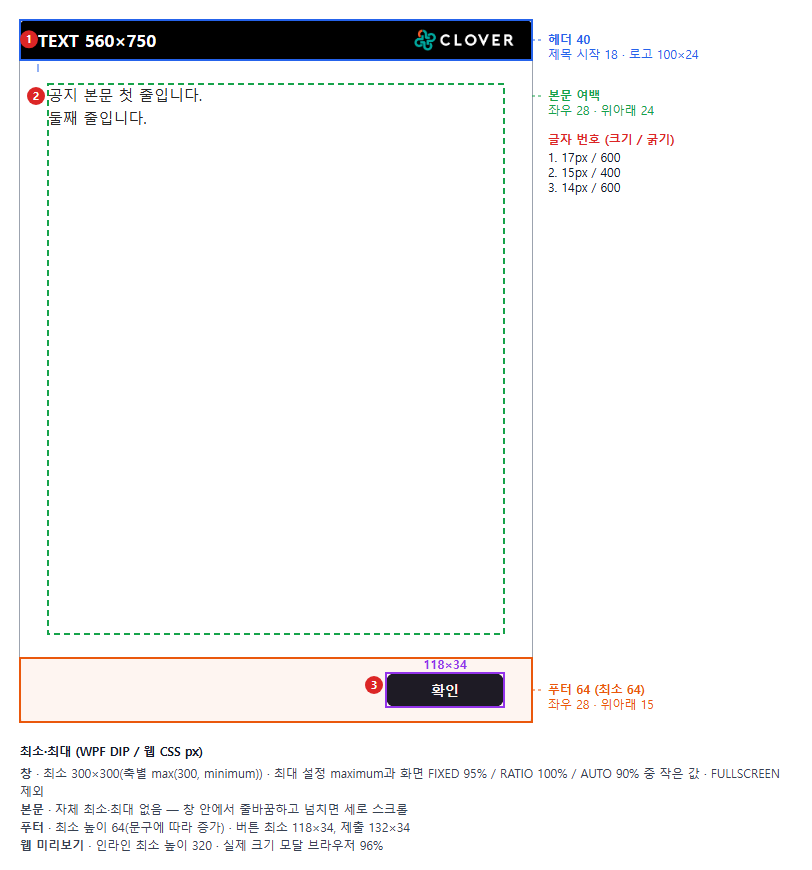
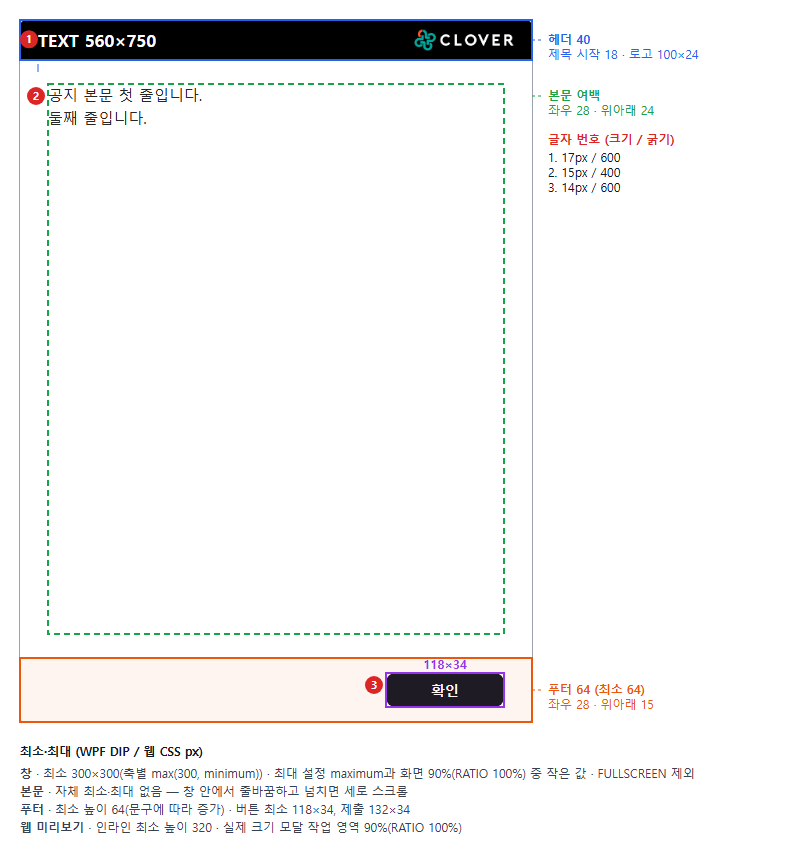
dev: 61-23_화면상한90통일_수정

diff --git a/zero-rule-web/main/src/features/PopupcommonComponent/popupPreviewDialogLayout.ts b/zero-rule-web/main/src/features/PopupcommonComponent/popupPreviewDialogLayout.ts
@@ -75,6 +75,9 @@ export const PREVIEW_SCREEN_PRESETS: ReadonlyArray<{ key: Exclude<PreviewScreenK
   { key: '2560x1440', display: { width: 2560, height: 1440 }, workArea: { width: 2560, height: 1400 } },
 ];
 
+/** WPF PopupWindow.ScreenSafeAreaRatio와 같은 화면 안전 여백(FIXED·IMAGE 공통 90%, 2026-11-24 통일). */
+export const PREVIEW_SCREEN_SAFE_AREA_RATIO = 0.90;
+
 /** 화면 정보가 없을 때(SSR 등) 쓰는 작업 영역. 기존 readViewport 대체값과 같다. */
 export const FALLBACK_WORK_AREA: Size = { width: 1920, height: 1040 };
 
@@ -124,7 +127,8 @@ export function previewWorkArea(key: PreviewScreenKey, current: Size): Size {
  * - in : popup(AdminPopupDetail) sizeMode·width/height·widthRatio/heightRatio·maximumWidth/maximumHeight · fitWindow(Size | null) PopupPreview가 계산한 IMAGE 권장 창 크기(WPF RecommendedSizeChanged와 같은 값, 이미 작업 영역 90% 이내) · workArea(Size) 작업 영역(현재 모니터 또는 기준 화면 프리셋)
  * - out: Size WPF가 같은 작업 영역에서 만들 창 크기(px, 정수 반올림). 브라우저 표시 한계는 previewDisplaySize가 따로 적용한다.
  * - WPF PopupWindow.ApplyWindowSize()와 같은 규칙(TODO61-23, 2026-11-24):
- *   IMAGE(FULLSCREEN 제외)는 설정 최대값 대신 작업 영역 90%. 비IMAGE FIXED는 min(설정 최대, 작업 영역 95%), RATIO는 min(설정 최대, 작업 영역 100%).
+ *   IMAGE(FULLSCREEN 제외)는 설정 최대값 대신 작업 영역 90%. 비IMAGE FIXED는 min(설정 최대, 작업 영역 90%), RATIO는 min(설정 최대, 작업 영역 100%).
+ *   (2026-11-24 WPF ScreenSafeAreaRatio 통일: FIXED 95% → 90%.)
  *   RATIO 비율은 WPF처럼 0.1~1.0으로 보정한다. 최소 300 x 300(popupMinimumSize)은 하한 → 설정 최대값(하한보다 작으면 하한까지) → 화면 상한 순서이며,
  *   화면 상한이 하한보다 작으면 하한을 상한까지 낮춘다(WPF Math.Min(Requested Minimum, max)).
  *   이전에는 브라우저 내부 크기를 작업 영역으로 보고 비IMAGE에 96%를 적용해, 브라우저 일반 모드(F11 해제)에서 IMAGE 730×900이 730×851로 줄었다.
@@ -138,7 +142,8 @@ export function previewDialogSize(popup: AdminPopupDetail, fitWindow: Size | nul
   const requestedHeight = popup.sizeMode === 'RATIO' ? areaHeight * ratio(popup.heightRatio) : (popup.height ?? 420);
   const minimum = popupMinimumSize(popup);
   const image = popup.popupType === 'IMAGE';
-  const screenRatio = image ? 0.90 : popup.sizeMode === 'RATIO' ? 1.0 : 0.95;
+  // WPF ScreenSafeAreaRatio 0.90(FIXED·AUTO·IMAGE 공통). RATIO는 작업 영역 × 비율이라 100%.
+  const screenRatio = !image && popup.sizeMode === 'RATIO' ? 1.0 : PREVIEW_SCREEN_SAFE_AREA_RATIO;
   const maximumWidth = image ? areaWidth * screenRatio : Math.min(Math.max(popup.maximumWidth, minimum.width), areaWidth * screenRatio);
   const maximumHeight = image ? areaHeight * screenRatio : Math.min(Math.max(popup.maximumHeight, minimum.height), areaHeight * screenRatio);
   const clamp = (value: number, min: number, max: number) => Math.max(Math.min(min, max), Math.min(max, value));

diff --git a/zero-rule-web/main/src/features/RgstPop/PopupEditorDialog.tsx b/zero-rule-web/main/src/features/RgstPop/PopupEditorDialog.tsx
@@ -564,9 +564,9 @@ export default function PopupEditorDialog({ open, popupId, initialActive, onClos
                 helperText={popup.popupType === 'IMAGE' ? `${POPUP_MIN_WINDOW_SIZE}px 이상 · 헤더·푸터 포함 최종 창 기준 · 작업 영역 90%를 넘으면 그 값으로 보정` : `${POPUP_MIN_WINDOW_SIZE}px 이상 · 최대 높이(${popup.maximumHeight}px) 이하`} onChange={(value) => updatePopup('minimumHeight', value)} />
               {popup.popupType !== 'IMAGE' && <>
                 <PopupDimensionField label="창 최대 너비" value={popup.maximumWidth} minimum={popup.minimumWidth} maximum={Number.MAX_VALUE}
-                  helperText={`최소 너비(${popup.minimumWidth}px) 이상 · ${popup.sizeMode === 'RATIO' ? '작업 영역 100%' : '작업 영역 95%'}를 넘지 않게 보정`} onChange={(value) => updatePopup('maximumWidth', value)} />
+                  helperText={`최소 너비(${popup.minimumWidth}px) 이상 · ${popup.sizeMode === 'RATIO' ? '작업 영역 100%' : '작업 영역 90%'}를 넘지 않게 보정`} onChange={(value) => updatePopup('maximumWidth', value)} />
                 <PopupDimensionField label="창 최대 높이" value={popup.maximumHeight} minimum={popup.minimumHeight} maximum={Number.MAX_VALUE}
-                  helperText={`최소 높이(${popup.minimumHeight}px) 이상 · ${popup.sizeMode === 'RATIO' ? '작업 영역 100%' : '작업 영역 95%'}를 넘지 않게 보정`} onChange={(value) => updatePopup('maximumHeight', value)} />
+                  helperText={`최소 높이(${popup.minimumHeight}px) 이상 · ${popup.sizeMode === 'RATIO' ? '작업 영역 100%' : '작업 영역 90%'}를 넘지 않게 보정`} onChange={(value) => updatePopup('maximumHeight', value)} />
               </>}
             </Box>}
             {popup.sizeMode !== 'FULLSCREEN' && <Typography variant="caption" color="text.secondary">{popup.popupType === 'IMAGE' ? '이미지 창 최대: 현재 화면 작업 영역의 90%. 고정 최대 픽셀값을 사용하지 않습니다.' : `미리보기 최대 크기: ${popup.maximumWidth}px × ${popup.maximumHeight}px`}</Typography>}

diff --git a/zero-rule-web/main/src/features/PopupcommonComponent/guide/guideData.ts b/zero-rule-web/main/src/features/PopupcommonComponent/guide/guideData.ts
@@ -100,7 +100,7 @@ const BUTTON = POPUP_LAYOUT.button;
  */
 export const LAYOUT_LIMITS: { windows: GuideLayoutLimit[]; types: GuideLayoutLimit[]; preview: GuideLayoutLimit[] } = {
   windows: [
-    { target: 'FIXED', min: `${MIN}×${MIN} (입력한 최소값이 더 크면 그 값)`, max: '입력한 최대값과 화면의 95% 중 작은 값', note: '입력한 너비·높이로 열고 최소·최대 사이로 맞춥니다.' },
+    { target: 'FIXED', min: `${MIN}×${MIN} (입력한 최소값이 더 크면 그 값)`, max: '입력한 최대값과 화면의 90% 중 작은 값', note: '입력한 너비·높이로 열고 최소·최대 사이로 맞춥니다.' },
     { target: 'RATIO', min: `${MIN}×${MIN}`, max: '입력한 최대값과 화면의 100% 중 작은 값', note: '화면 크기에 비율(0.1~1.0)을 곱합니다.' },
     { target: 'AUTO', min: `${MIN}×${MIN}`, max: '입력한 최대값과 화면의 90% 중 작은 값', note: '내용 크기에 맞춥니다.' },
     { target: 'FULLSCREEN', min: '제한 없음', max: '모니터 전체', note: '최소·최대 값을 쓰지 않습니다.' },
@@ -116,7 +116,7 @@ export const LAYOUT_LIMITS: { windows: GuideLayoutLimit[]; types: GuideLayoutLim
   ],
   preview: [
     { target: 'InlinePopupPreview', min: '미리보기 높이 320', max: '부모 영역', note: '실제 팝업 창의 최소 높이가 아닙니다.' },
-    { target: 'PopupPreviewDialog', min: `${MIN}×${MIN}`, max: '작업 영역의 95%(RATIO 100%, IMAGE 90%)', note: '작업 영역은 현재 모니터(작업 표시줄 제외) 또는 기준 화면 프리셋입니다. 브라우저보다 크면 표시 영역까지 줄이고 1:1이 아님을 안내합니다.' },
+    { target: 'PopupPreviewDialog', min: `${MIN}×${MIN}`, max: '작업 영역의 90%(RATIO 100%)', note: '작업 영역은 현재 모니터(작업 표시줄 제외) 또는 기준 화면 프리셋입니다. 브라우저보다 크면 표시 영역까지 줄이고 1:1이 아님을 안내합니다.' },
   ],
 };
 

diff --git a/popup-frameWork/Popup/Views/Windows/PopupWindow.xaml.cs b/popup-frameWork/Popup/Views/Windows/PopupWindow.xaml.cs
@@ -143,8 +143,8 @@ namespace Popup.Views.Windows
                         + PopupBodyBorder.BorderThickness.Top + PopupBodyBorder.BorderThickness.Bottom
                         + (_options.ShowHeader ? HeaderRow.Height.Value : 0)
                         + (_options.ShowFooter ? FooterRow.Height.Value : 0);
-                    imageView.SetAvailableBounds(EffectiveMaximumWidth(area, FixedSizeSafeAreaRatio) - outerWidth,
-                        EffectiveMaximumHeight(area, FixedSizeSafeAreaRatio) - outerHeight);
+                    imageView.SetAvailableBounds(EffectiveMaximumWidth(area, ScreenSafeAreaRatio) - outerWidth,
+                        EffectiveMaximumHeight(area, ScreenSafeAreaRatio) - outerHeight);
                     if (_lastImageRecommendation is Size recommendation)
                         ImagePopupView_RecommendedSizeChanged(recommendation.Width, recommendation.Height);
                 }
@@ -413,10 +413,10 @@ namespace Popup.Views.Windows
                 RequestedMinimumHeight;
 
             MaxWidth =
-                IsImagePopup ? CurrentWorkArea().Width * ImageSafeAreaRatio : RequestedMaximumWidth;
+                IsImagePopup ? CurrentWorkArea().Width * ScreenSafeAreaRatio : RequestedMaximumWidth;
 
             MaxHeight =
-                IsImagePopup ? CurrentWorkArea().Height * ImageSafeAreaRatio : RequestedMaximumHeight;
+                IsImagePopup ? CurrentWorkArea().Height * ScreenSafeAreaRatio : RequestedMaximumHeight;
 
             switch (_options.SizeMode)
             {
@@ -428,12 +428,13 @@ namespace Popup.Views.Windows
                  * (예: 5000 x 3000)에서 Header/Footer/닫기 버튼이 화면 밖으로 밀리고
                  * Topmost + Overlay 조합에서 사용자 PC 조작이 막힐 수 있다.
                  * 그래서 RATIO/AUTO처럼 현재 모니터 작업 영역(WorkArea, DIP 단위)을 기준으로
-                 * 최종 상한을 두고, IMAGE는 작업 영역 90%만으로 최대값을 정하고, 다른 유형은 기존 95%와 설정 최대값을 적용한다.
+                 * 최종 상한을 두고, IMAGE는 작업 영역 90%만으로 최대값을 정하고, 다른 유형은 작업 영역 90%와 설정 최대값 중 작은 값을 적용한다
+                 * (2026-11-24 FIXED 95% → 90%로 AUTO·IMAGE와 통일, ScreenSafeAreaRatio).
                  *
                  * 순서:
                  *   서버 Width/Height
                  *   → 서버 MaximumWidth/Height 적용
-                 *   → 작업 영역 95% 상한 적용
+                 *   → 작업 영역 90% 상한 적용
                  *   → 최소값도 상한 이하로 보정(Minimum > 화면 최대일 때 Math.Clamp 예외 방지)
                  *   → 최종 Window 크기
                  *
@@ -448,10 +449,10 @@ namespace Popup.Views.Windows
                         Rect workArea = CurrentWorkArea();
 
                         double safeMaxWidth =
-                            EffectiveMaximumWidth(workArea, FixedSizeSafeAreaRatio);
+                            EffectiveMaximumWidth(workArea, ScreenSafeAreaRatio);
 
                         double safeMaxHeight =
-                            EffectiveMaximumHeight(workArea, FixedSizeSafeAreaRatio);
+                            EffectiveMaximumHeight(workArea, ScreenSafeAreaRatio);
 
                         double safeMinWidth =
                             Math.Min(
@@ -631,10 +632,10 @@ namespace Popup.Views.Windows
                             SizeToContent.WidthAndHeight;
 
                         MaxWidth =
-                            EffectiveMaximumWidth(workArea, 0.9);
+                            EffectiveMaximumWidth(workArea, ScreenSafeAreaRatio);
 
                         MaxHeight =
-                            EffectiveMaximumHeight(workArea, 0.9);
+                            EffectiveMaximumHeight(workArea, ScreenSafeAreaRatio);
 
                         MinWidth =
                             Math.Min(RequestedMinimumWidth, MaxWidth);
@@ -657,18 +658,20 @@ namespace Popup.Views.Windows
         }
 
         /*
-         * POL-02-01 : 창 구조 — FIXED 크기의 화면 안전 여백. 작업 영역의 95%를 최대 크기로 쓴다.
-         * (1920 x 1080 작업 영역이면 약 1824 x 1026)
+         * POL-02-01 : 창 구조 — 화면 안전 여백. FIXED·AUTO·IMAGE 모두 작업 영역의 90%를 최대 크기로 쓴다
+         * (1920 x 1040 작업 영역이면 1728 x 936). RATIO는 '작업 영역 × 비율(0.1~1.0)'이라 100%, FULLSCREEN은 화면 전체.
+         * 2026-11-24 통일: 이전에는 FIXED 95%·AUTO 90%·IMAGE 90%로 따로 정해져 있었고 값이 다른 근거가 없었다.
+         * 90%는 창 안 그림자 여백 24와 별도로 화면 가장자리 여유(1040 높이에서 위아래 약 52)를 남겨 배경 Overlay·닫기 버튼이 보이게 하고,
+         * VM 복귀·해상도 변경 때 버튼이 화면 밖으로 밀릴 위험을 줄인다.
          */
-        private const double FixedSizeSafeAreaRatio = 0.95;
-        private const double ImageSafeAreaRatio = 0.90;
+        private const double ScreenSafeAreaRatio = 0.90;
         private Size? _lastImageRecommendation;
         private bool IsImagePopup => _options.PopupType == "IMAGE" || _options.Content is ImagePopupView;
 
         private double EffectiveMaximumWidth(Rect area, double otherRatio) => IsImagePopup
-            ? area.Width * ImageSafeAreaRatio : Math.Min(RequestedMaximumWidth, area.Width * otherRatio);
+            ? area.Width * ScreenSafeAreaRatio : Math.Min(RequestedMaximumWidth, area.Width * otherRatio);
         private double EffectiveMaximumHeight(Rect area, double otherRatio) => IsImagePopup
-            ? area.Height * ImageSafeAreaRatio : Math.Min(RequestedMaximumHeight, area.Height * otherRatio);
+            ? area.Height * ScreenSafeAreaRatio : Math.Min(RequestedMaximumHeight, area.Height * otherRatio);
 
         /*
          * POL-01-03 : 최소 크기
@@ -724,10 +727,10 @@ namespace Popup.Views.Windows
                 recommendedHeight = image.RequestedWindowHeight ?? recommendedHeight + vertical;
             }
             double safeMaxWidth =
-                EffectiveMaximumWidth(workArea, FixedSizeSafeAreaRatio);
+                EffectiveMaximumWidth(workArea, ScreenSafeAreaRatio);
 
             double safeMaxHeight =
-                EffectiveMaximumHeight(workArea, FixedSizeSafeAreaRatio);
+                EffectiveMaximumHeight(workArea, ScreenSafeAreaRatio);
 
             double safeMinWidth =
                 Math.Min(

diff --git a/scripts/PopupWindowTests/Program.cs b/scripts/PopupWindowTests/Program.cs
@@ -717,6 +717,11 @@ internal static class Program
         Check(Math.Abs(ratio.Width - 300) < 0.6 && Math.Abs(ratio.Height - 300) < 0.6, $"[TODO68] RATIO result below 300 uses the floor ({ratio})");
         var larger = Fixed(640, 480, 300);
         Check(Math.Abs(larger.Width - 640) < 0.6 && Math.Abs(larger.Height - 480) < 0.6, "[TODO68] sizes above the floor are unchanged");
+        // 2026-11-24 화면 상한 통일(ScreenSafeAreaRatio 0.90): 비IMAGE FIXED도 AUTO·IMAGE와 같이 작업 영역 90%(이전 95%). 설정 최대값이 더 커도 화면 상한이 이긴다.
+        var huge = Fixed(20000, 20000, 300, maxWidth: 30000);
+        var area = SystemParameters.WorkArea;
+        Check(Math.Abs(huge.Width - area.Width * 0.9) < 1 && Math.Abs(huge.Height - area.Height * 0.9) < 1,
+            $"[screen cap] FIXED non-IMAGE is capped at 90% of the work area ({huge.Width} x {huge.Height} / {area.Width} x {area.Height})");
 
         // IMAGE FIT_TO_IMAGE: 콘텐츠 50 x 50이어도 헤더·푸터를 더한 최종 창은 300 이상이고 width/height는 콘텐츠 영역 의미를 유지한다.
         var image = DemoPopups("IMAGE").Single();

diff --git a/docs/design/61_POPUP_LAYOUT_GUIDE.md b/docs/design/61_POPUP_LAYOUT_GUIDE.md
@@ -57,10 +57,10 @@ node scripts/verify-popup-parity.cjs
 
 | 창 모드 | WPF 최소 | WPF 최대(가로·세로 각각) | 실제 크기 |
 |---|---|---|---|
-| `FIXED` | 유효 하한, 화면 상한 이하로 보정 | **비IMAGE:** `min(설정 maximum, 작업 영역×95%)`; **IMAGE:** 작업 영역×90% | 요청 width/height 보정 |
+| `FIXED` | 유효 하한, 화면 상한 이하로 보정 | **비IMAGE:** `min(설정 maximum, 작업 영역×90%)`; **IMAGE:** 작업 영역×90% | 요청 width/height 보정. 2026-11-24 95% → 90% 통일 |
 | `RATIO` | 유효 하한, 화면 상한 이하로 보정 | **비IMAGE:** `min(설정 maximum, 작업 영역×100%)`; **IMAGE:** 작업 영역×90% | WPF가 축별 비율을 0.1~1.0으로 보정해 작업 영역에 적용 |
 | `AUTO` | 유효 하한, 화면 상한 이하로 보정 | **비IMAGE:** `min(설정 maximum, 작업 영역×90%)`; **IMAGE:** 작업 영역×90% | 콘텐츠 측정 크기(`SizeToContent`) 기준 |
-| `FULLSCREEN` | 창 속성 min 0 | 창 속성 max ∞; 실제 주 모니터 전체 크기 | 일반 최소 300·화면 90/95% 상한 적용하지 않음 |
+| `FULLSCREEN` | 창 속성 min 0 | 창 속성 max ∞; 실제 주 모니터 전체 크기 | 일반 최소 300·화면 90% 상한 적용하지 않음 |
 
 비IMAGE에서 설정 maximum이 유효 하한보다 작으면 하한까지 올린다. IMAGE는 설정 maximum이 아닌 **작업 영역 90% 상한**을 사용한다. IMAGE의 `ADAPTIVE/FIT_TO_IMAGE`는 위의 창 크기 모드와 다른 **이미지 표시 모드**다.
 
@@ -84,12 +84,12 @@ node scripts/verify-popup-parity.cjs
 | 화면 | 적용 범위·제한 |
 |---|---|
 | 인라인 미리보기 | 미리보기 내용 자리 **최소 높이 320**, 너비는 부모 영역 기준. 실제 팝업 창의 최소 높이가 아님 |
-| 실제 크기 모달(비IMAGE) | **작업 영역 기준**(TODO61-23, 2026-11-24): 설정 minimum/maximum으로 보정 후 FIXED `min(설정 maximum, 작업 영역×95%)`, RATIO `min(설정 maximum, 작업 영역×100%)`·비율 0.1~1.0 보정으로 WPF와 같다(웹에는 AUTO 없음). 작업 영역은 현재 모니터(`screen.availWidth/availHeight`) 또는 기준 화면 프리셋(1920×1080→1920×1040, 2560×1440→2560×1400) |
+| 실제 크기 모달(비IMAGE) | **작업 영역 기준**(TODO61-23, 2026-11-24): 설정 minimum/maximum으로 보정 후 FIXED `min(설정 maximum, 작업 영역×90%)`, RATIO `min(설정 maximum, 작업 영역×100%)`·비율 0.1~1.0 보정으로 WPF와 같다(웹에는 AUTO 없음). 작업 영역은 현재 모니터(`screen.availWidth/availHeight`) 또는 기준 화면 프리셋(1920×1080→1920×1040, 2560×1440→2560×1400) |
 | 실제 크기 모달(IMAGE) | **작업 영역 90% 상한**(WPF와 같음). FIT_TO_IMAGE 권장 창 크기도 같은 작업 영역으로 계산한다 |
 | 실제 크기 모달 표시 한계 | 목표 크기가 브라우저 표시 영역(`innerWidth/innerHeight`)에 들어가면 1:1. 넘치는 축만 표시 영역까지 줄이고 '1:1 아님'을 안내한다. 배경은 브라우저 뷰포트를 덮고 페이지·모달 래퍼 스크롤은 없다 |
 | FULLSCREEN 미리보기 | 브라우저 뷰포트 전체. WPF는 주 모니터 전체화면 |
 
-**확인 기준:** 유형별 300 하한·설정 maximum·모드별 화면 상한, TEXT 300 폭 본문 스크롤, QUIZ 760 및 긴 문항 줄바꿈, 선택지 32, WEB 주관식 96~180, VIDEO+QUIZ 영상 180/70%, 인라인 320·모달 작업 영역 95%/100%/90%를 같은 데이터로 확인한다. 브라우저/WPF 실화면·DPI·폐쇄망 검증은 미실행 상태로 유지한다.
+**확인 기준:** 유형별 300 하한·설정 maximum·모드별 화면 상한, TEXT 300 폭 본문 스크롤, QUIZ 760 및 긴 문항 줄바꿈, 선택지 32, WEB 주관식 96~180, VIDEO+QUIZ 영상 180/70%, 인라인 320·모달 작업 영역 90%(RATIO 100%)를 같은 데이터로 확인한다. 브라우저/WPF 실화면·DPI·폐쇄망 검증은 미실행 상태로 유지한다.
 
 근거: [WPF 창 크기](../../popup-frameWork/Popup/Views/Windows/PopupWindow.xaml.cs) · [WPF 기본 설정](../../popup-frameWork/Popup/Models/PopupOptions.cs) · [TEXT 뷰](../../popup-frameWork/Popup/Views/Contents/TextPopupView.xaml) · [설문/퀴즈 뷰](../../popup-frameWork/Popup/Views/Contents/SurveyPopupView.xaml) · [문항 구현](../../popup-frameWork/Popup/Views/Contents/SurveyPopupView.xaml.cs) · [영상 비율](../../popup-frameWork/Popup/Views/Contents/VideoPopupView.AspectSizing.cs) · [웹 설문](../../zero-rule-web/main/src/features/PopupcommonComponent/SurveyPreview.tsx) · [웹 크기 계산](../../zero-rule-web/main/src/features/PopupcommonComponent/popupPreviewDialogLayout.ts) · [인라인 미리보기](../../zero-rule-web/main/src/features/PopupcommonComponent/InlinePopupPreview.tsx)
 
@@ -118,10 +118,10 @@ node scripts/verify-popup-parity.cjs
 
 최소·최대(그림 아래 칸과 같음):
 
-- **창** · 최소 300×300(축별 max(300, minimum)) · 최대 설정 maximum과 화면 FIXED 95% / RATIO 100% / AUTO 90% 중 작은 값 · FULLSCREEN 제외
+- **창** · 최소 300×300(축별 max(300, minimum)) · 최대 설정 maximum과 화면 90%(RATIO 100%) 중 작은 값 · FULLSCREEN 제외
 - **본문** · 자체 최소·최대 없음 — 창 안에서 줄바꿈하고 넘치면 세로 스크롤
 - **푸터** · 최소 높이 64(문구에 따라 증가) · 버튼 최소 118×34, 제출 132×34
-- **웹 미리보기** · 인라인 최소 높이 320 · 실제 크기 모달 작업 영역 95%(RATIO 100%)
+- **웹 미리보기** · 인라인 최소 높이 320 · 실제 크기 모달 작업 영역 90%(RATIO 100%)
 
 웹·WPF 나란히: [PARITY-TEXT-560x750.side.png](61_popup_layout_guide/PARITY-TEXT-560x750.side.png)
 
@@ -140,10 +140,10 @@ node scripts/verify-popup-parity.cjs
 
 최소·최대(그림 아래 칸과 같음):
 
-- **창** · 최소 300×300(축별 max(300, minimum)) · 최대 설정 maximum과 화면 FIXED 95% / RATIO 100% / AUTO 90% 중 작은 값 · FULLSCREEN 제외
+- **창** · 최소 300×300(축별 max(300, minimum)) · 최대 설정 maximum과 화면 90%(RATIO 100%) 중 작은 값 · FULLSCREEN 제외
 - **본문** · 자체 최소·최대 없음 — 창 안에서 줄바꿈하고 넘치면 세로 스크롤
 - **푸터** · 최소 높이 64(문구에 따라 증가) · 버튼 최소 118×34, 제출 132×34
-- **웹 미리보기** · 인라인 최소 높이 320 · 실제 크기 모달 작업 영역 95%(RATIO 100%)
+- **웹 미리보기** · 인라인 최소 높이 320 · 실제 크기 모달 작업 영역 90%(RATIO 100%)
 
 웹·WPF 나란히: [PARITY-TEXT-NARROW-LONG.side.png](61_popup_layout_guide/PARITY-TEXT-NARROW-LONG.side.png)
 
@@ -165,10 +165,10 @@ node scripts/verify-popup-parity.cjs
 
 최소·최대(그림 아래 칸과 같음):
 
-- **창** · 최소 300×300(축별 max(300, minimum)) · 최대 설정 maximum과 화면 FIXED 95% / RATIO 100% / AUTO 90% 중 작은 값 · FULLSCREEN 제외
+- **창** · 최소 300×300(축별 max(300, minimum)) · 최대 설정 maximum과 화면 90%(RATIO 100%) 중 작은 값 · FULLSCREEN 제외
 - **설문·퀴즈** · 콘텐츠 최대 너비 760(창 너비와 별개) · 선택지 최소 높이 32 · 주관식 최소 96(웹 96~180)
 - **푸터** · 최소 높이 64(문구에 따라 증가) · 버튼 최소 118×34, 제출 132×34
-- **웹 미리보기** · 인라인 최소 높이 320 · 실제 크기 모달 작업 영역 95%(RATIO 100%)
+- **웹 미리보기** · 인라인 최소 높이 320 · 실제 크기 모달 작업 영역 90%(RATIO 100%)
 
 웹·WPF 나란히: [PARITY-SURVEY.side.png](61_popup_layout_guide/PARITY-SURVEY.side.png)
 
@@ -190,10 +190,10 @@ node scripts/verify-popup-parity.cjs
 
 최소·최대(그림 아래 칸과 같음):
 
-- **창** · 최소 300×300(축별 max(300, minimum)) · 최대 설정 maximum과 화면 FIXED 95% / RATIO 100% / AUTO 90% 중 작은 값 · FULLSCREEN 제외
+- **창** · 최소 300×300(축별 max(300, minimum)) · 최대 설정 maximum과 화면 90%(RATIO 100%) 중 작은 값 · FULLSCREEN 제외
 - **설문·퀴즈** · 콘텐츠 최대 너비 760(창 너비와 별개) · 선택지 최소 높이 32 · 주관식 최소 96(웹 96~180)
 - **푸터** · 최소 높이 64(문구에 따라 증가) · 버튼 최소 118×34, 제출 132×34
-- **웹 미리보기** · 인라인 최소 높이 320 · 실제 크기 모달 작업 영역 95%(RATIO 100%)
+- **웹 미리보기** · 인라인 최소 높이 320 · 실제 크기 모달 작업 영역 90%(RATIO 100%)
 
 웹·WPF 나란히: [PARITY-QUIZ-OX.side.png](61_popup_layout_guide/PARITY-QUIZ-OX.side.png)
 
@@ -234,10 +234,10 @@ node scripts/verify-popup-parity.cjs
 
 최소·최대(그림 아래 칸과 같음):
 
-- **창** · 최소 300×300(축별 max(300, minimum)) · 최대 설정 maximum과 화면 FIXED 95% / RATIO 100% / AUTO 90% 중 작은 값 · FULLSCREEN 제외
+- **창** · 최소 300×300(축별 max(300, minimum)) · 최대 설정 maximum과 화면 90%(RATIO 100%) 중 작은 값 · FULLSCREEN 제외
 - **영상** · WPF 남는 높이 사용(별도 min/max 없음) · 웹 미리보기만 최소 높이 170
 - **푸터** · 최소 높이 64(문구에 따라 증가) · 버튼 최소 118×34, 제출 132×34
-- **웹 미리보기** · 인라인 최소 높이 320 · 실제 크기 모달 작업 영역 95%(RATIO 100%)
+- **웹 미리보기** · 인라인 최소 높이 320 · 실제 크기 모달 작업 영역 90%(RATIO 100%)
 
 웹·WPF 나란히: [PARITY-VIDEO.side.png](61_popup_layout_guide/PARITY-VIDEO.side.png)
 
@@ -259,11 +259,11 @@ node scripts/verify-popup-parity.cjs
 
 최소·최대(그림 아래 칸과 같음):
 
-- **창** · 최소 300×300(축별 max(300, minimum)) · 최대 설정 maximum과 화면 FIXED 95% / RATIO 100% / AUTO 90% 중 작은 값 · FULLSCREEN 제외
+- **창** · 최소 300×300(축별 max(300, minimum)) · 최대 설정 maximum과 화면 90%(RATIO 100%) 중 작은 값 · FULLSCREEN 제외
 - **영상(퀴즈 포함)** · 높이 = 폭×원본 비율, 최소 180 · 최대 max(180, 가용 높이×70%)
 - **설문·퀴즈** · 콘텐츠 최대 너비 760(창 너비와 별개) · 선택지 최소 높이 32 · 주관식 최소 96(웹 96~180)
 - **푸터** · 최소 높이 64(문구에 따라 증가) · 버튼 최소 118×34, 제출 132×34
-- **웹 미리보기** · 인라인 최소 높이 320 · 실제 크기 모달 작업 영역 95%(RATIO 100%)
+- **웹 미리보기** · 인라인 최소 높이 320 · 실제 크기 모달 작업 영역 90%(RATIO 100%)
 
 웹·WPF 나란히: [PARITY-VIDEO-QUIZ.side.png](61_popup_layout_guide/PARITY-VIDEO-QUIZ.side.png)
 

diff --git a/version-history/CHANGELOG.md b/version-history/CHANGELOG.md
@@ -1,5 +1,13 @@
 # 변경 이력
 
+## 2026-11-24-07 — dev: 61-23_화면상한90통일_수정
+
+- 이유 · WPF 팝업 화면 상한이 FIXED 95%·AUTO 90%·IMAGE 90%로 나뉘어 있었고 설계 11·15·23 어디에도 값이 다른 근거가 없음(TODO61-23 대조 중 확인). 화면 가장자리 여유와 VM 복귀·해상도 변경 시 버튼 가시성을 위해 90%로 통일.
+- 변경 · WPF `PopupWindow.xaml.cs`의 `FixedSizeSafeAreaRatio`(0.95)·`ImageSafeAreaRatio`(0.90)·AUTO 0.9를 `ScreenSafeAreaRatio = 0.90`으로 통합(FIXED만 95→90%로 동작 변경). RATIO 100%·FULLSCREEN 화면 전체는 유지. 웹 실제 크기 미리보기 FIXED 상한 90%, RgstPop 최대 크기 입력 안내·관리자 가이드 표시 문구, 레이아웃 가이드 그림 7종 재생성, WPF 인터페이스·정책 사양·레이아웃 가이드·UI 기본값 사양 갱신.
+- 주요 파일 · `popup-frameWork/Popup/Views/Windows/PopupWindow.xaml.cs`, `scripts/PopupWindowTests/Program.cs`, `zero-rule-web/main/src/features/PopupcommonComponent/popupPreviewDialogLayout.ts`, `guide/guideData.ts`, `zero-rule-web/main/src/features/RgstPop/PopupEditorDialog.tsx`, `scripts/verify-popup-preview-61.cjs`, `scripts/verify-popup-guide-render.cjs`, `scripts/verify-popup-parity.cjs`, `docs/interfaces/WPF/POPUP_INTERFACE_SPEC.md`, `docs/interfaces/WPF/WPF_AGENT_SPEC.md`, `docs/design/61_POPUP_LAYOUT_GUIDE.md`, `docs/design/61_popup_layout_guide/`, `docs/design/61_POPUP_UI_DEFAULTS_SPEC.md`, `docs/design/61_관리자_미리보기_컴포넌트화_TODO.md`, `docs/policies/ACTIVE_TASKS.md`.
+- 검증 · `PopupWindowTests` 660건 통과(FIXED 큰 요청 → 작업 영역 90% 검사 추가), 로컬 `Popup.BehaviorTests`(Git 제외) 1644건 통과, `verify-popup-preview-61` 255·guide-render 33·image-preview 48·popup-parity 54건 통과, `tsc --noEmit`·변경 파일 eslint 통과. 미실행: WPF·관리자 웹 실화면, 고DPI·다중 모니터, 폐쇄망.
+- 상태 · 커밋·원격 반영.
+
 ## 2026-11-24-06 — dev: 61-23_실제크기미리보기작업영역_수정
 
 - 이유 · IMAGE 730×900 실제 크기 미리보기가 브라우저 일반 모드에서 730×851, F11에서 730×900으로 달라지는 차이(TODO61-23). 미리보기가 브라우저 내부 크기를 작업 영역으로 써서 WPF(모니터 작업 영역 기준)와 계산 기준이 다르고, 비IMAGE 화면 상한도 WPF(FIXED 95%·RATIO 100%)와 달리 96%였음. 여러 모니터 크기를 같은 화면에서 비교할 기준 화면 선택 요건 포함.
@@ -13,7 +21,7 @@
 - 이유 · 흰 퀴즈 본문 위에 뜨는 완료 안내가 검은 외곽선으로만 구분되어, QUIZ·VIDEO+QUIZ 완료창을 섀도우로 구분하는 후속 TODO 구현.
 - 변경 · `PopupAlertStyle`(Default·QuizCompletion) 추가, `PopupAlert.Show()`·`CreateDialog()`에 선택 인자(기본 Default)로 반영. QuizCompletion은 외곽선 없이 흰 판에만 섀도우(검정·0.16·Blur 20·Depth 4·아래 방향)를 두고 본문은 효과 없는 레이어로 분리, 창 둘레 투명 여백 24 DIP(창 478·흰 판 430 유지). `PopupManager.SubmitSurveyResult()`의 QUIZ 완료 안내(단독 QUIZ·VIDEO+QUIZ)만 QuizCompletion 지정, 미통과·검증·저장 오류·SURVEY 안내는 기존 형식. 결과 생성·큐 적재·닫기 순서와 `score/passed` 계약은 변경 없음.
 - 주요 파일 · `popup-frameWork/Popup/Views/Windows/PopupAlert.cs`, `popup-frameWork/Popup/Managers/PopupManager.cs`, `scripts/PopupWindowTests/Program.cs`, `docs/interfaces/WPF/WPF_POPUP_ALL_SPEC.md`, `docs/design/20261116_WPF_PopupAlert_외곽선두께_조정_TODO.md`, `docs/policies/ACTIVE_TASKS.md`.
-- 검증 · `scripts/PopupWindowTests` 빌드·실행 `PASS: 659`(완료 형식 구조·수치, 확인 버튼 닫기, QUIZ·VIDEO_QUIZ 완료 안내 섀도우·재응시/SURVEY 안내 기존 외곽선). 미실행: Windows 100%·고DPI·화면 가장자리 그림자 잘림 실화면, 부모 창 중심·모달 포커스 실화면, 폐쇄망 반입본.
+- 검증 · `scripts/PopupWindowTests` 빌드·실행 `PASS: 659`(완료 형식 구조·수치, 확인 버튼 닫기, QUIZ·VIDEO_QUIZ 완료 안내 섀도우·재응시/SURVEY 안내 기존 외곽선). 보완: 로컬 `Popup.BehaviorTests`(Git 제외)의 `CreateDialog` 리플렉션 호출이 추가 인자로 실패해 인자 보정 후 1644건 통과. 미실행: Windows 100%·고DPI·화면 가장자리 그림자 잘림 실화면, 부모 창 중심·모달 포커스 실화면, 폐쇄망 반입본.
 - 상태 · 커밋·원격 반영. 섀도우 최종 수치는 실화면 확인 후 확정.
 
 ## 2026-11-24-04 — doc: TODO61-23 실제 크기 미리보기 기준 화면 선택 추가

diff --git a/docs/policies/ACTIVE_TASKS.md b/docs/policies/ACTIVE_TASKS.md
@@ -28,7 +28,7 @@
 | F200 | 미리보기 ‘나중에 보기’ 버튼 크기·푸터 정렬 | 진행 | 2026-11-18 웹 구현, 푸터 버튼 34·푸터 64 웹·WPF 통일(같은 데이터 비교 일치, 비교 이미지 docs/reviews 반입)·하네스·WPF 테스트 통과. 폐쇄망 실화면 확인. 11-19 후속으로 설문·텍스트 푸터 하단 여백 15와 줄바꿈 시 위쪽 확장을 웹·WPF에 반영하고 회귀 검증 | [TODO61-18](../design/61_관리자_미리보기_컴포넌트화_TODO.md) |
 | F200 | 폐쇄망 미리보기 헤더 12px CSS 우선순위 충돌 | 진행 | 2026-11-19 공통 헤더 제목 `&&` 적용, 전역 `body1` 12px 재현 하네스에서 기본 17px·명시값 통과. 폐쇄망 반입 후 실화면 확인 | [TODO61-19](../design/61_관리자_미리보기_컴포넌트화_TODO.md) |
 | F200 | 팝업 UI 기본값 캡처·회귀 검증 | 진행 | 2026-11-19 로컬 11세트 캡처·글자/영역 실측(54건 통과). 차이 2건은 TODO61-21 레이아웃 공통화(PopupFooter·POPUP_LAYOUT·WPF 푸터 버튼 스타일)에서 WPF 기준 반영. 캡처 기반 [레이아웃 가이드](../design/61_POPUP_LAYOUT_GUIDE.md) 작성(61-22). 등록 편집기 비교·배율·폐쇄망 | [TODO61-20](../design/61_관리자_미리보기_컴포넌트화_TODO.md#61-20-팝업-ui-기본값-캡처-및-회귀-검증) |
-| F200 | 실제 크기 미리보기 작업 영역·전체 팝업 레이아웃 | 진행 | 2026-11-24 웹 구현: 작업 영역(현재 모니터 `screen.avail*`·프리셋 1920×1080/2560×1440) 기준 크기, 비IMAGE 상한 WPF와 통일(FIXED 95%·RATIO 100%), 브라우저 초과 축만 제한·1:1 안내. 하네스 255건 등 통과. 실브라우저 확대율·고DPI·다중 모니터 실측, 같은 데이터 WPF 창 실측 비교, 전 유형 실화면, 폐쇄망 | [TODO61-23](../design/61_관리자_미리보기_컴포넌트화_TODO.md#61-23-실제-크기-미리보기-작업-영역-차이-재현-및-유형별-회귀-검증) |
+| F200 | 실제 크기 미리보기 작업 영역·전체 팝업 레이아웃 | 진행 | 2026-11-24 웹 구현: 작업 영역(현재 모니터 `screen.avail*`·프리셋 1920×1080/2560×1440) 기준 크기, 비IMAGE 상한 WPF와 통일(FIXED 90%·RATIO 100%, 같은 날 WPF FIXED 95%→90%로 AUTO·IMAGE와 통일), 브라우저 초과 축만 제한·1:1 안내. 하네스 255건 등 통과. 실브라우저 확대율·고DPI·다중 모니터 실측, 같은 데이터 WPF 창 실측 비교, 전 유형 실화면, 폐쇄망 | [TODO61-23](../design/61_관리자_미리보기_컴포넌트화_TODO.md#61-23-실제-크기-미리보기-작업-영역-차이-재현-및-유형별-회귀-검증) |
 | F200 | 폐쇄망 사용자 지정 폰트 이름 직접 전달 | 진행 | 2026-11-19 웹 등록·서버 이름 검증·WPF 적용(미설치 시 기본 글꼴) 구현, 로컬 테스트 통과. 반영 순서 서버→WPF→웹. 폐쇄망 Text·Title 패밀리·400/700 확인과 저장·재조회 왕복 | [TODO28 후속](../design/28_TEXT_FONT_EDITING_TODO.md#14-후속--폐쇄망-사용자-지정-폰트-이름-직접-전달) |
 | F200 | 미리보기 VIDEO 레이아웃·공통 헤더/푸터 WPF 정렬 | 진행 | 관리자 웹·WPF 캡처 나란히 비교 | [TODO61-17](../design/61_관리자_미리보기_컴포넌트화_TODO.md) |
 | F200 | 퀴즈·설문 에디터·공통코드 | 진행 | 채점 문항 최소 1개 등록 검증 반영. 로그인 실화면, 원격 개발 DB 저장 왕복, 폐쇄망 코드 0089·0090 확인 | [TODO73](../design/73_관리자웹_퀴즈설문_에디터_공통코드매핑_TODO.md) |

diff --git a/docs/design/61_관리자_미리보기_컴포넌트화_TODO.md b/docs/design/61_관리자_미리보기_컴포넌트화_TODO.md
@@ -363,6 +363,13 @@
 - `tsc --noEmit` 통과, 변경 파일 eslint 오류 없음. `verify-image-preview` 48, `verify-popup-guide-render` 33, `verify-completion-ux-43` 82, `verify-popup-transform-64` 78, `verify-survey-rich-text-55` 81, `verify-rich-text-49` 107, `verify-popup-common-sample-69` 63, `verify-popup-parity` 54건 통과.
 - 하네스의 화면 조건은 CDP 에뮬레이션(배율 1)이다. 미실행: 실제 브라우저 확대율·Windows 고DPI·다중 모니터·작업 표시줄 숨김에서 `screen.avail*` 실측, 같은 데이터의 WPF 창·흰 판·이미지 박스 실측 비교(구현 시 확인 1·3번), 전 유형 실화면 회귀, `next build`, 로그인 관리자 화면, 폐쇄망.
 
+### 후속 — 화면 상한 90% 통일 (2026-11-24, WPF·웹)
+
+- 배경: 대조 중 WPF 화면 상한이 FIXED 95%·AUTO 90%·IMAGE 90%로 나뉘어 있고, 값이 다른 근거가 설계 11·15·23에 없음을 확인. RATIO 100%는 '작업 영역 × 비율(0.1~1.0)' 정의에서 나온 값이라 유지.
+- 결정: FIXED·AUTO·IMAGE를 90%로 통일. 동작이 바뀌는 범위는 FIXED에서 작업 영역 90%를 넘는 요청뿐이고, 화면 가장자리 여유(1040 높이 기준 위아래 약 52)를 남겨 Overlay·닫기 버튼 가시성과 VM 복귀·해상도 변경 시 안전성을 높인다.
+- 변경: WPF `PopupWindow.xaml.cs` `FixedSizeSafeAreaRatio`(0.95)·`ImageSafeAreaRatio`(0.90)·AUTO 리터럴 0.9를 `ScreenSafeAreaRatio = 0.90` 하나로 통합. 웹 `previewDialogSize()` FIXED 상한 90%(`PREVIEW_SCREEN_SAFE_AREA_RATIO`), RgstPop 최대 크기 입력 안내·가이드 표시 문구, 레이아웃 가이드 그림·문서, WPF 인터페이스·정책 사양 갱신.
+- 검증: `PopupWindowTests` 660건(FIXED 20000×20000 → 작업 영역 90% 검사 추가), 로컬 `Popup.BehaviorTests` 1644건, `verify-popup-preview-61` 255(FIXED 기대값 950×760 → 900×720, 작은 작업 영역 266×247 → 252×234), guide-render 33, image-preview 48, popup-parity 54, `tsc --noEmit`·eslint 통과. 실화면 미실행.
+
 ### 완료 기준
 
 - [ ] 730×900 사례와 전체 유형의 동일 데이터·동일 조건 결과가 남아 있고, 차이가 발생한 단계와 수정 근거를 확인할 수 있다. 목표 크기가 브라우저에 들어가는 조건에서는 F11 전환만으로 모달 크기가 달라지던 사례를 재검증한다.

diff --git a/docs/design/61_POPUP_UI_DEFAULTS_SPEC.md b/docs/design/61_POPUP_UI_DEFAULTS_SPEC.md
@@ -42,8 +42,8 @@ WPF 소스 · [PopupWindow.xaml](../../popup-frameWork/Popup/Views/Windows/Popup
 | QUIZ | SURVEY와 동일 | SURVEY와 동일 |
 | VIDEO+QUIZ | 비IMAGE 창 크기 모드 적용 | 퀴즈 너비 최대 760, 영상 높이 최소 180·부모 스크롤 높이 70% 상한(최소보다 작으면 180 우선) |
 
-- 비IMAGE WPF 창 최대: **FIXED** 설정 maximum과 작업 영역 95% 중 작은 값 / **RATIO** 설정 maximum과 작업 영역 100% 중 작은 값 / **AUTO** 설정 maximum과 작업 영역 90% 중 작은 값. **FULLSCREEN**은 별도 화면 크기 적용.
-- IMAGE는 비전체화면 모드에서 설정 maximum 대신 작업 영역 **90%**. WEB 실제 크기 모달은 WPF와 같이 작업 영역(현재 모니터 또는 기준 화면 프리셋) 기준 비IMAGE FIXED **95%**·RATIO **100%**, IMAGE **90%** 상한이며 브라우저 표시 영역을 넘는 축만 줄인다(TODO61-23). 인라인은 미리보기 칸 **최소 높이 320**.
+- 비IMAGE WPF 창 최대: **FIXED** 설정 maximum과 작업 영역 90% 중 작은 값(2026-11-24 95%에서 통일) / **RATIO** 설정 maximum과 작업 영역 100% 중 작은 값 / **AUTO** 설정 maximum과 작업 영역 90% 중 작은 값. **FULLSCREEN**은 별도 화면 크기 적용.
+- IMAGE는 비전체화면 모드에서 설정 maximum 대신 작업 영역 **90%**. WEB 실제 크기 모달은 WPF와 같이 작업 영역(현재 모니터 또는 기준 화면 프리셋) 기준 FIXED·IMAGE **90%**, RATIO **100%** 상한이며 브라우저 표시 영역을 넘는 축만 줄인다(TODO61-23). 인라인은 미리보기 칸 **최소 높이 320**.
 - 기본 `maximumWidth=1200`·`maximumHeight=900`은 **설정값의 기본**이지 모든 창에 적용되는 절대 최대 픽셀값이 아니다.
 
 ## 유형별 본문과 등록 입력

diff --git a/docs/interfaces/WPF/WPF_AGENT_SPEC.md b/docs/interfaces/WPF/WPF_AGENT_SPEC.md
@@ -322,7 +322,7 @@ WPF DTO에 초기값이 있다는 사실은 필수값을 생략해도 된다는 
  BOTTOM_LEFT       BOTTOM_CENTER       BOTTOM_RIGHT
 ```
 
-일반 FIXED 창은 작업 영역 95% 이내로 최종 제한합니다. 화면이 최소 크기보다 작으면 화면 안 배치를 우선합니다. 표시 중 DPI·작업 영역이 바뀌면 상한을 다시 계산하고 창이 화면 밖으로 나간 경우 설정 위치로 되돌립니다.
+일반 FIXED 창은 작업 영역 90% 이내로 최종 제한합니다(AUTO·IMAGE와 같은 화면 안전 여백, RATIO는 작업 영역 × 비율이라 100%). 화면이 최소 크기보다 작으면 화면 안 배치를 우선합니다. 표시 중 DPI·작업 영역이 바뀌면 상한을 다시 계산하고 창이 화면 밖으로 나간 경우 설정 위치로 되돌립니다.
 
 `AUTO`는 WPF가 자체 지원하는 값이지만 현재 서버·관리자 웹의 저장·응답 값에는 포함하지 않습니다. 창 전체화면 `sizeMode=FULLSCREEN`과 영상 플레이어의 전체화면은 별개입니다.
 

diff --git a/docs/interfaces/WPF/POPUP_INTERFACE_SPEC.md b/docs/interfaces/WPF/POPUP_INTERFACE_SPEC.md
@@ -350,7 +350,7 @@ X-Client-Version: 1.0.0
 
 WPF는 최종 렌더링 단계에서 화면 밖으로 나가지 않도록 값을 보정한다.
 
-- FIXED: 작업 영역 95% 이내로 최종 제한. IMAGE는 고정 최대값을 사용하지 않고 작업 영역 90% 적용
+- FIXED: 작업 영역 90% 이내로 최종 제한(2026-11-24 95%에서 AUTO·IMAGE와 같은 90%로 통일). IMAGE는 고정 최대값을 사용하지 않고 작업 영역 90% 적용
 - RATIO: 작업 영역 비율 사용
 - FULLSCREEN: 주 모니터 전체
 - AUTO: 콘텐츠 기준 자동 크기(WPF 전용 — 서버 응답에는 나오지 않음)
